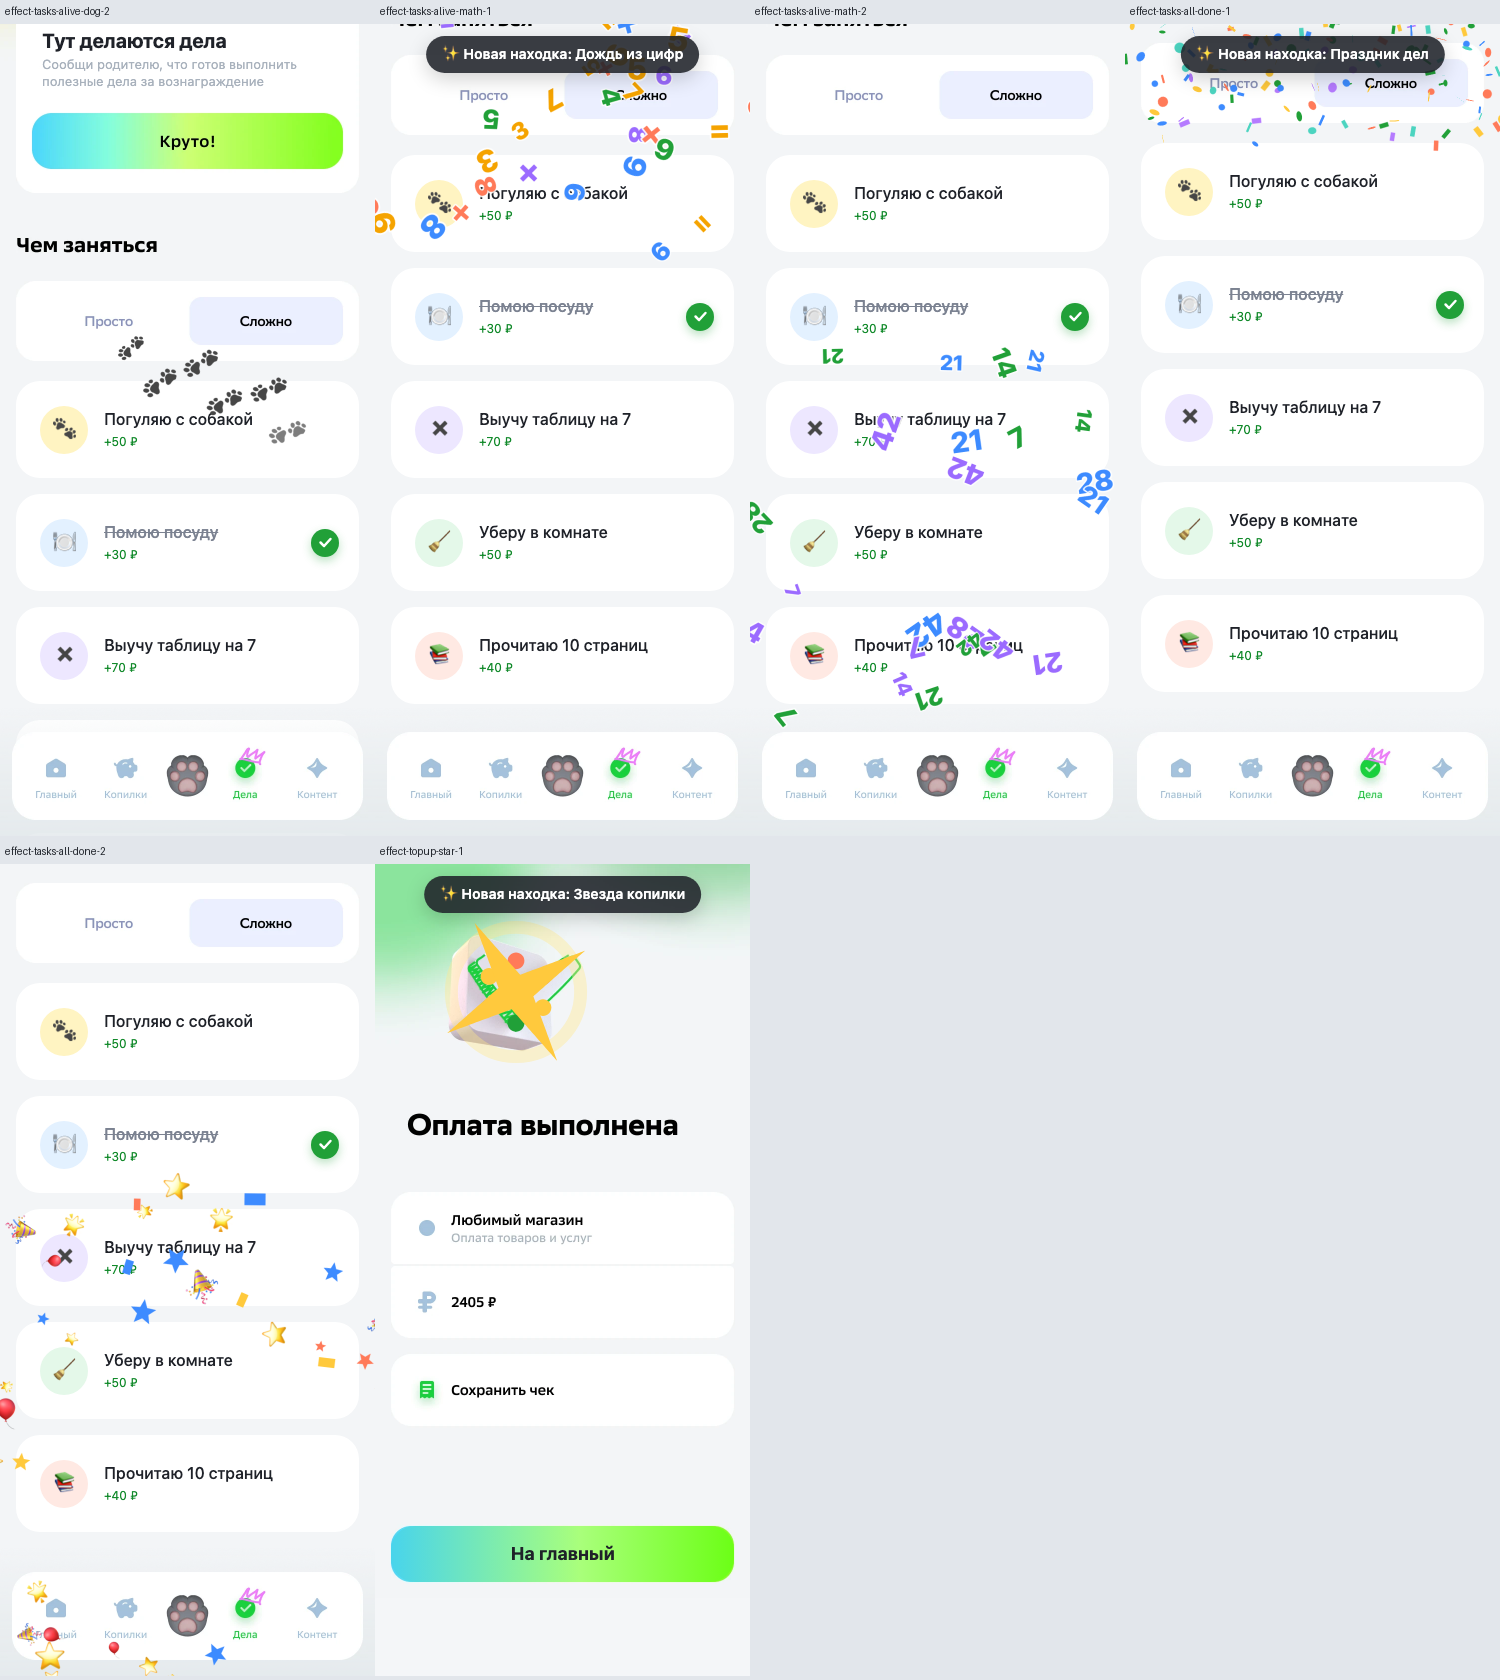
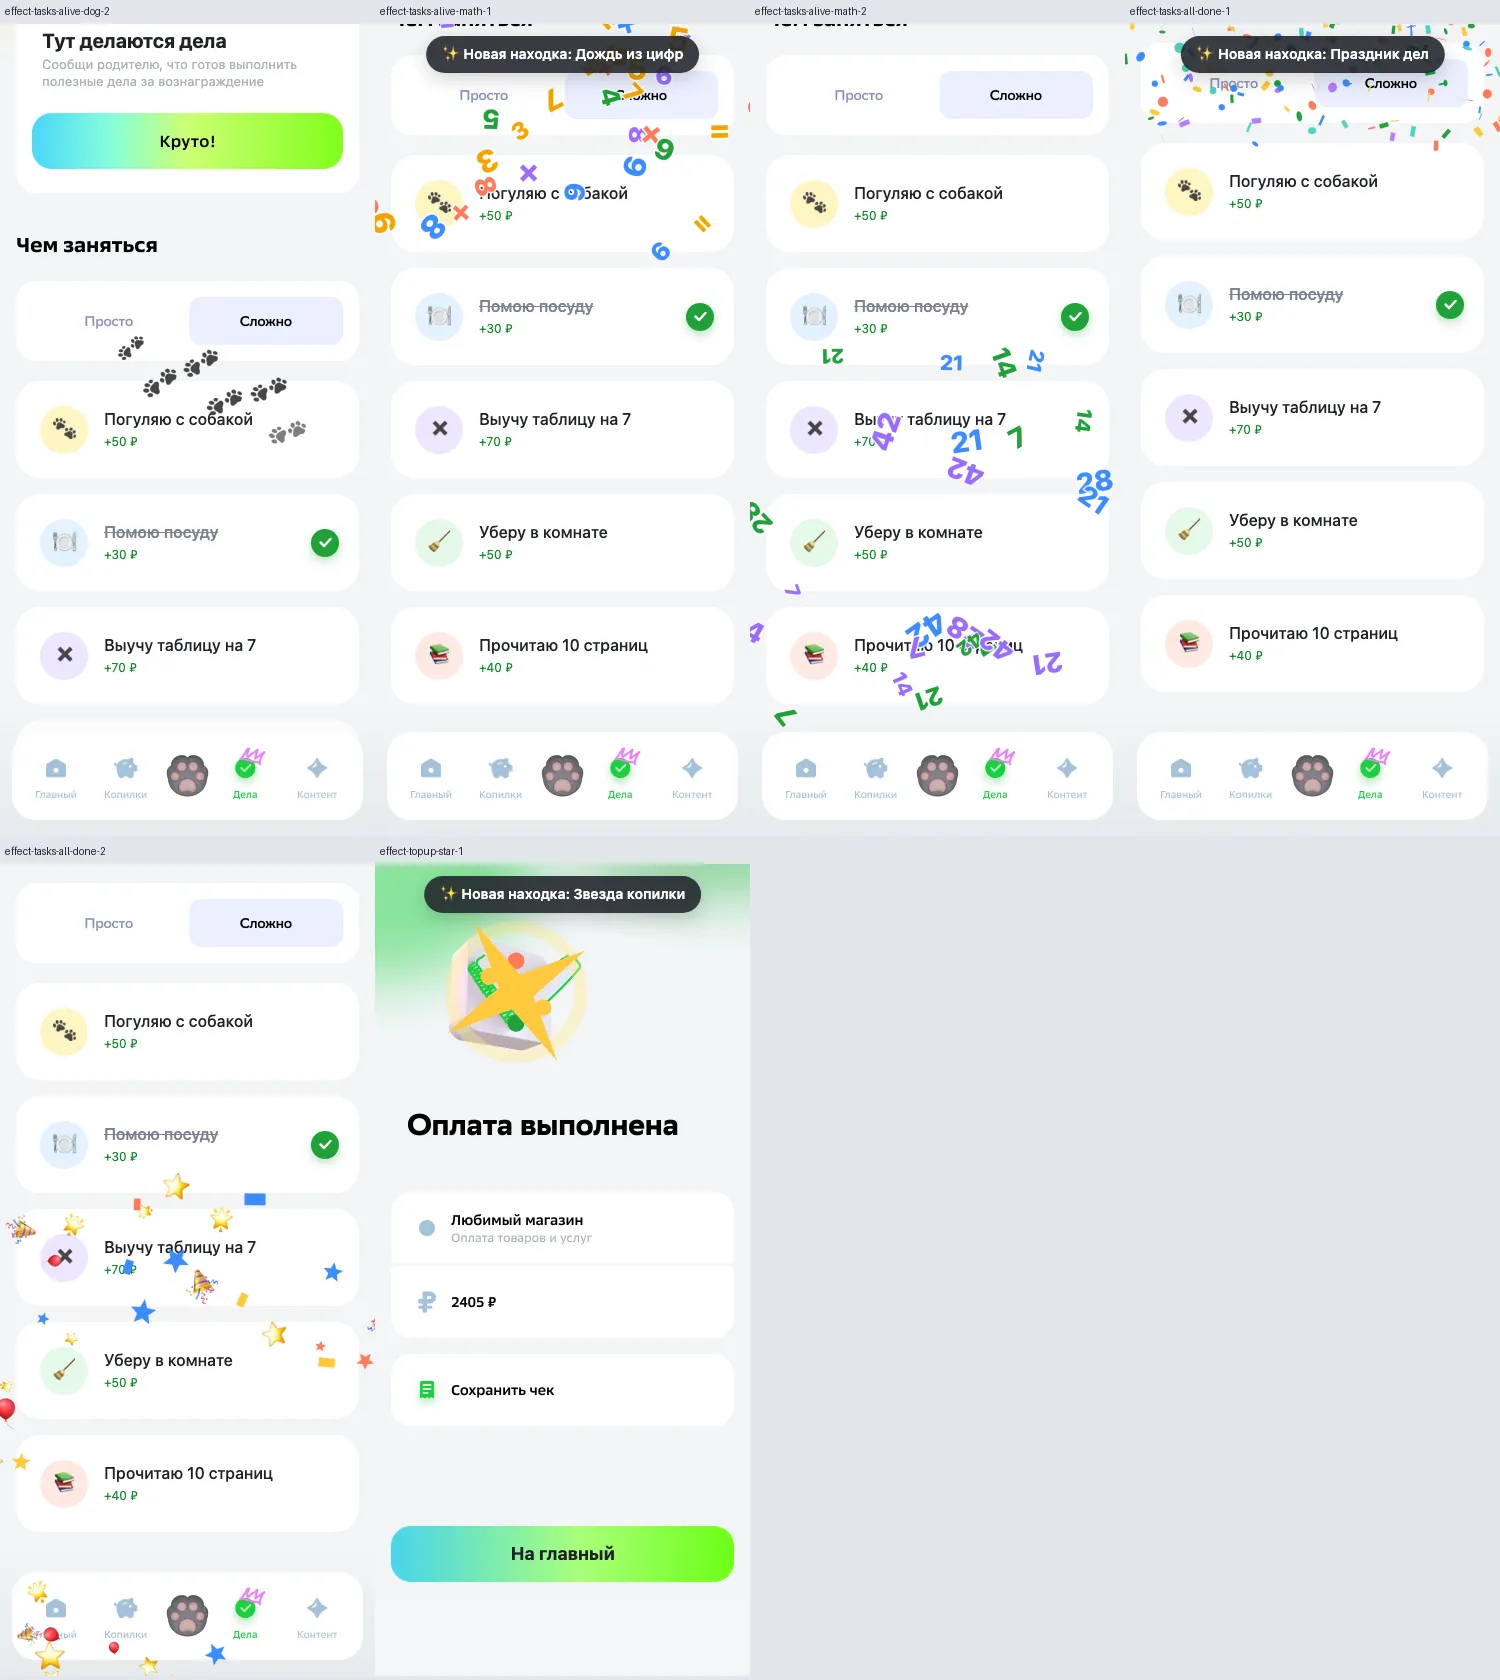
Контактные листы приёмки P0 в WebP с потерями: 6,8 → 2,2 МБ

diff --git a/docs/qa/p0/README.md b/docs/qa/p0/README.md
@@ -1,6 +1,6 @@
 # Доказательства приёмки P0
 
-17 октября 2026. Контактные листы собраны из настоящих скриншотов при viewport 375×812; изображения сохранены без потерь.
+17 октября 2026. Контактные листы собраны из настоящих скриншотов при viewport 375×812; изображения перекодированы в WebP с потерями (качество 0,8) — это иллюстрации, а не эталоны.
 Длинные экраны показаны несколькими кадрами с перекрытием. Каждый кадр имеет подпись исходного файла.
 
 [Ассеты и ограничения путей](assets.json) · [Отмена звука и вибрации](sound.txt) · [Регрессия P2 после P0](p2-regression.json).
@@ -19,7 +19,7 @@
 
 Альбом, debug и CMS: [лист 1](chromium-ui-1.webp).
 
-[CMS с превью при 1280×900](chromium-cms-preview.png).
+[CMS с превью при 1280×900](chromium-cms-preview.webp).
 
 ## WebKit
 
@@ -31,6 +31,6 @@
 
 Альбом, debug и CMS: [лист 1](webkit-ui-1.webp).
 
-[CMS с превью при 1280×900](webkit-cms-preview.png).
+[CMS с превью при 1280×900](webkit-cms-preview.webp).
 
 Полные отдельные PNG сохраняются при повторном запуске в `QA_DIR`. Методика — [P0_QA.md](../../P0_QA.md).
